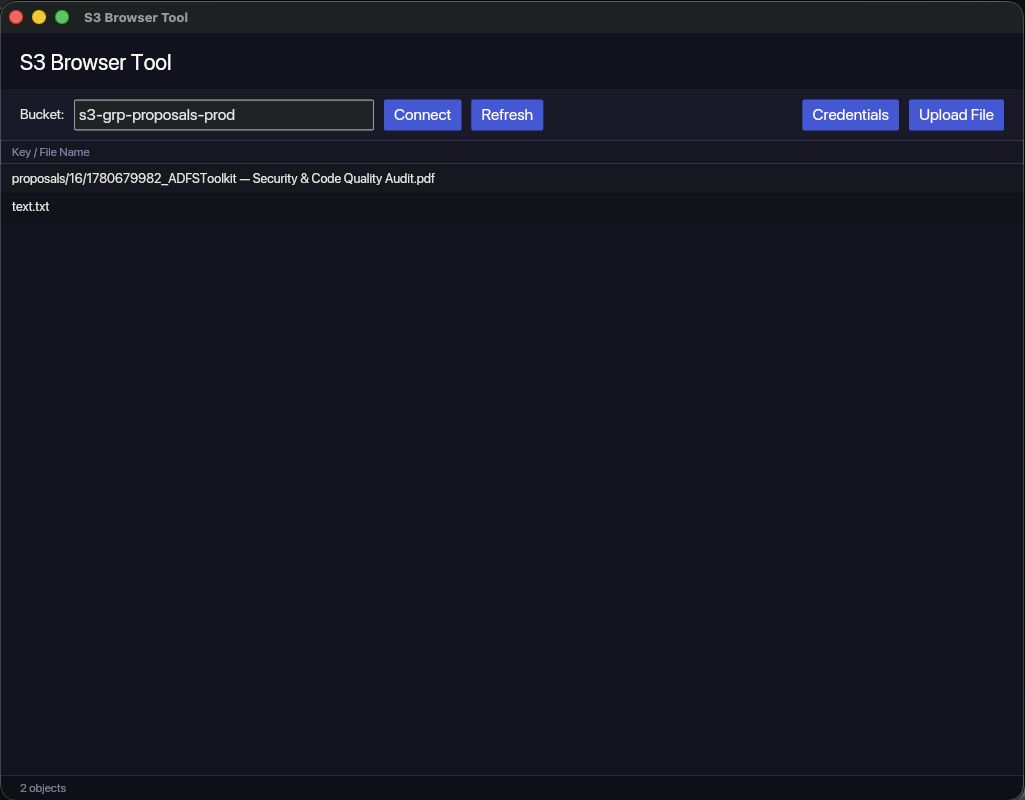
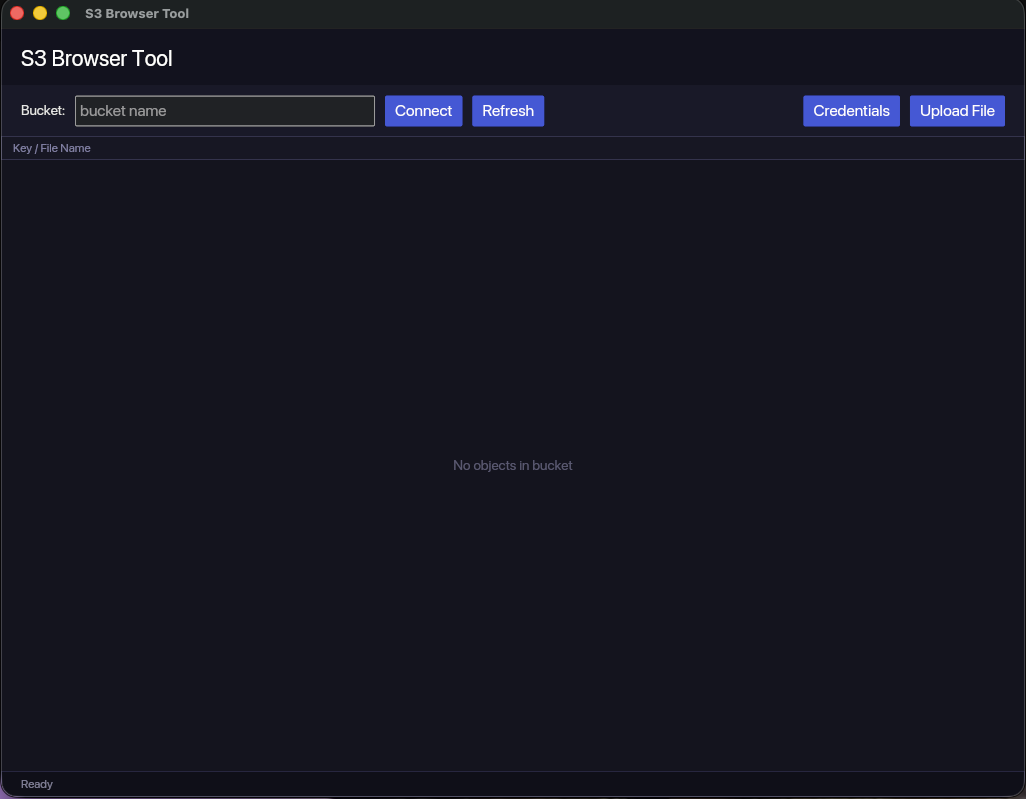
docs: update README screenshot

diff --git a/README.md b/README.md
@@ -98,9 +98,9 @@ Or:
 
 ![S3 Browser Tool GUI](assets/screenshot.png)
 
-The main window: enter a bucket name in the toolbar, connect, and the object
-list fills the table. The status bar at the bottom shows the object count and
-operation results.
+The main window: enter a bucket name in the toolbar and click **Connect** to
+list the bucket's objects. The status bar at the bottom shows the object count
+and operation results.
 
 **Usage:**
 - Bucket from `.env` is pre-loaded on startup and objects listed automatically